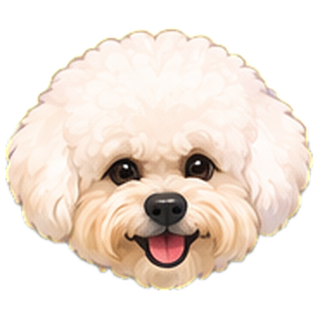
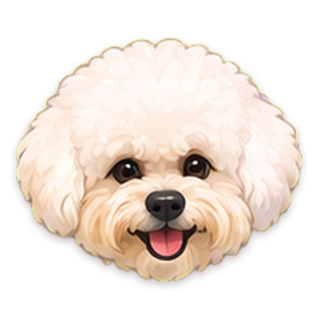
Make placing dogs smoother on iPhone
- Bake Toby's shadow into the placed-dog art and the cross symbol instead of
  CSS drop-shadow filters, which Safari redraws every animation frame.
- Placed dog is a shared, pre-decoded background image rather than a new img.
- Redraw only squares that changed; batch saves; play sounds after the frame.

Claude-Session: https://claude.ai/code/session_01X2DzHikvmZdyBSqugt2kme

Changed region(s): [[0.0, 0.0625, 1.0, 0.9062], [0.625, 0.4062, 0.6562, 0.4375], [0.2812, 0.4688, 0.3125, 0.5]]

diff --git a/index.html b/index.html
@@ -55,7 +55,7 @@ header{display:flex;align-items:center;justify-content:space-between;gap:8px;fle
 .boardArea{flex:1;min-height:0;display:flex;align-items:center;justify-content:center;position:relative}
 .frame{background:var(--card);border-radius:22px;box-shadow:0 6px 22px rgba(117,69,55,.16);padding:8px;position:relative;z-index:6}
 .strip{display:grid;gap:var(--gap);margin-bottom:6px;padding:0 1px}
-.strip .head{display:flex;justify-content:center;align-items:flex-end;filter:drop-shadow(0 1px 1px rgba(117,69,55,.4))}
+.strip .head{display:flex;justify-content:center;align-items:flex-end}
 .strip .sil,.strip .face{width:min(100%,40px);aspect-ratio:1;display:block}
 .strip .sil{-webkit-mask:url(toby/face-happy.png) center/contain no-repeat;mask:url(toby/face-happy.png) center/contain no-repeat}
 .strip .face{display:none;object-fit:contain}
@@ -70,9 +70,9 @@ header{display:flex;align-items:center;justify-content:space-between;gap:8px;fle
   background-repeat:no-repeat;background-position:center;background-size:58% 58%;transition:filter .2s;box-shadow:inset 0 -2px 0 rgba(0,0,0,.06)}
 body.nopat .tile{background-image:none!important}
 .tile svg{pointer-events:none}
-.tile .x{width:52%;height:52%;filter:drop-shadow(0 1px 1px rgba(0,0,0,.25))}
-.tile .x.red{filter:drop-shadow(0 1px 1px rgba(0,0,0,.18));animation:pop .3s}
-.tile .dog{width:94%;height:94%;object-fit:contain;pointer-events:none;filter:drop-shadow(0 1.5px 2px rgba(117,69,55,.35))}
+.tile .x{width:52%;height:52%}
+.tile .x.red{animation:pop .3s}
+.tile .dog{width:96%;height:96%;pointer-events:none;background:url(toby/tile-head.png) center/contain no-repeat;transform:translateZ(0)}
 .tile.pop .dog{animation:pop .4s}
 .tile.sniffed{animation:sniffed .9s}
 @keyframes sniffed{0%{box-shadow:0 0 0 0 rgba(247,154,34,.9)}40%{box-shadow:0 0 0 4px rgba(247,154,34,.9)}100%{box-shadow:0 0 0 0 rgba(247,154,34,0)}}
@@ -338,7 +338,7 @@ function buildDefs() {
   const boneShape = (fillAttrs) => `<circle cx="11" cy="10" r="8" ${fillAttrs}/><circle cx="11" cy="20" r="8" ${fillAttrs}/><circle cx="49" cy="10" r="8" ${fillAttrs}/><circle cx="49" cy="20" r="8" ${fillAttrs}/><rect x="11" y="9" width="38" height="12" rx="3" ${fillAttrs}/>`;
   const bone = `<symbol id="bone" viewBox="0 0 60 30">${boneShape('fill="#A8671E" stroke="#A8671E" stroke-width="3.5"')}${boneShape('fill="#F7C548"')}
     <path d="M14 7.5h3M45 7.5h-3M17 12.5h26" stroke="#FFE7A0" stroke-width="2.2" stroke-linecap="round"/></symbol>`;
-  const xmark = `<symbol id="xmark" viewBox="0 0 24 24"><path d="M5 5l14 14M19 5L5 19" stroke="currentColor" stroke-width="4.2" stroke-linecap="round"/></symbol>`;
+  const xmark = `<symbol id="xmark" viewBox="0 0 24 24"><path d="M5 6l14 14M19 6L5 20" stroke="#000" stroke-opacity=".16" stroke-width="4.6" stroke-linecap="round"/><path d="M5 5l14 14M19 5L5 19" stroke="currentColor" stroke-width="4.2" stroke-linecap="round"/></symbol>`;
   const icons = `
     <symbol id="paw" viewBox="0 0 24 24"><g fill="${COCOA}"><ellipse cx="12" cy="15.5" rx="4.6" ry="3.9"/><circle cx="6.4" cy="10.4" r="2.1"/><circle cx="10" cy="6.8" r="2.1"/><circle cx="14" cy="6.8" r="2.1"/><circle cx="17.6" cy="10.4" r="2.1"/></g></symbol>
     <symbol id="gear" viewBox="0 0 24 24"><path fill="${COCOA}" d="M10.3 2h3.4l.5 2.6 1.7.8 2.2-1.5 2.4 2.4-1.5 2.2.8 1.7 2.6.5v3.4l-2.6.5-.8 1.7 1.5 2.2-2.4 2.4-2.2-1.5-1.7.8-.5 2.6h-3.4l-.5-2.6-1.7-.8-2.2 1.5-2.4-2.4 1.5-2.2-.8-1.7L2 13.7v-3.4l2.6-.5.8-1.7-1.5-2.2 2.4-2.4 2.2 1.5 1.7-.8zM12 8.4a3.6 3.6 0 1 0 0 7.2 3.6 3.6 0 0 0 0-7.2z"/></symbol>
@@ -530,8 +530,20 @@ function newGameFrom(p) {
   return { kind: p.kind, key: p.key, n: p.n, regions: p.regions, sol: p.sol, colours: p.colours, tier: p.tier, requestedTier: p.requestedTier, difficultyMatched: p.difficultyMatched, starters: p.starters || [],
     marks, history: [], bones: 3, finds: 0, hints: 0, sniffs: 0, red: [], continued: false, done: false, elapsed: 0 };
 }
-function saveGame() { if (G) store.set('game_' + G.kind, G); }
+// Saves are batched: written ~250ms after the last change (and at once when the app is hidden).
+let pendingSave = null, saveTimer = 0;
+function flushSave() { clearTimeout(saveTimer); if (pendingSave) { store.set('game_' + pendingSave.kind, pendingSave); pendingSave = null; } }
+function saveGame() {
+  if (!G) return;
+  if (pendingSave && pendingSave !== G) flushSave();
+  pendingSave = G; clearTimeout(saveTimer); saveTimer = setTimeout(flushSave, 250);
+}
+addEventListener('pagehide', flushSave);
+document.addEventListener('visibilitychange', () => { if (document.hidden) flushSave(); });
+// Run sounds and other non-visual work just after the next frame has been drawn.
+const afterPaint = fn => requestAnimationFrame(() => setTimeout(fn, 0));
 async function loadGame(kind) {
+  flushSave();
   mode = kind; store.set('mode', kind);
   const key = kind === 'daily' ? todayKey() : level;
   const saved = store.get('game_' + kind, null);
@@ -616,20 +628,26 @@ function render() {
 function paint() {
   const bad = clashes(), n = G.n, active = bonesActive();
   const regionHasGoodDog = new Array(n).fill(false);
+  const hc = settings.highContrast ? 1 : 0;
   tiles.forEach((d, i) => {
     const m = G.marks[i];
     const red = m === 1 && isRed(i);
     const want = m === 2 ? 'dog' : m === 1 ? (red ? 'rx' : 'x') : '';
-    if (d.dataset.show !== want) {
-      d.dataset.show = want;
-      d.innerHTML = want === 'dog' ? '<img class="dog" src="toby/tile-head.png" alt="">'
-        : want === 'x' ? `<svg class="x" viewBox="0 0 24 24" style="color:${settings.highContrast ? '#3b2219' : '#fff'}"><use href="#xmark"/></svg>`
+    const wrong = m === 2 && active && !isSol(i);
+    const clash = m === 2 && !wrong && bad.has(i);
+    if (m === 2 && !wrong && !clash) regionHasGoodDog[G.regions[i]] = true;
+    // only touch squares whose look actually changed (much cheaper on iPhone)
+    const key = want + wrong + clash + hc;
+    if (d._k === key && d.dataset.show === want) return;
+    d._k = key;
+    if (d.dataset.show !== want || d._hc !== hc) {
+      d.dataset.show = want; d._hc = hc;
+      d.innerHTML = want === 'dog' ? '<span class="dog"></span>'
+        : want === 'x' ? `<svg class="x" viewBox="0 0 24 24" style="color:${hc ? '#3b2219' : '#fff'}"><use href="#xmark"/></svg>`
         : want === 'rx' ? '<svg class="x red" viewBox="0 0 24 24" style="color:#EE6A3A"><use href="#xmark"/></svg>' : '';
     }
-    const wrong = m === 2 && active && !isSol(i);
     d.classList.toggle('wrong', wrong);
-    d.classList.toggle('clash', m === 2 && !wrong && bad.has(i));
-    if (m === 2 && !wrong && !bad.has(i)) regionHasGoodDog[G.regions[i]] = true;
+    d.classList.toggle('clash', clash);
     const y = Math.floor(i / n), x = i % n;
     d.setAttribute('aria-label', `Row ${y + 1}, column ${x + 1}, ${NAMES[G.colours[G.regions[i]]]}, ${m === 2 ? 'dog' : red ? 'wrong guess, crossed out' : m === 1 ? 'crossed out' : 'empty'}`);
   });
@@ -638,10 +656,10 @@ function paint() {
   $('btnHint').disabled = G.done || !hintsLeft();
   $('btnFind').disabled = G.done || !findsLeft();
   $('btnSniff').disabled = G.done || !sniffsLeft();
-  $('sniffBadge').textContent = sniffsLeft(); $('sniffBadge').classList.toggle('empty', !sniffsLeft());
-  $('hintBadge').textContent = hintsLeft(); $('hintBadge').classList.toggle('empty', !hintsLeft());
-  $('findBadge').textContent = findsLeft(); $('findBadge').classList.toggle('empty', !findsLeft());
+  setBadge('sniffBadge', sniffsLeft()); setBadge('hintBadge', hintsLeft());
+  setBadge('findBadge', findsLeft());
 }
+function setBadge(id, v) { const b = $(id); if (b.textContent !== String(v)) b.textContent = v; b.classList.toggle('empty', !v); }
 function renderBones() {
   const b = $('bones');
   if (!bonesActive()) { b.className = 'bones relaxed'; b.textContent = '😌 Relaxed'; return; }
@@ -671,7 +689,7 @@ function commit(changes, opts) {
   // feedback
   if (placedDogs.length) {
     const wrongOnes = bonesActive() ? placedDogs.filter(i => !isSol(i)) : [];
-    placedDogs.forEach(i => { tiles[i].classList.remove('pop'); void tiles[i].offsetWidth; tiles[i].classList.add('pop'); });
+    placedDogs.forEach(i => { const t = tiles[i]; t.classList.remove('pop'); requestAnimationFrame(() => t.classList.add('pop')); });
     if (wrongOnes.length && !opts.noPenalty) {
       wrongOnes.forEach(i => { const t = tiles[i]; t.classList.remove('shake'); void t.offsetWidth; t.classList.add('shake'); });
       loseBone();
@@ -681,9 +699,10 @@ function commit(changes, opts) {
         wrongOnes.forEach(i => { if (G.marks[i] === 2) { G.marks[i] = 1; if (!G.red) G.red = []; if (!G.red.includes(i)) G.red.push(i); } });
         paint(); saveGame();
       }, 650);
-    } else sfx.dog();
+    } else afterPaint(sfx.dog);
   } else if (!opts.silent) {
-    entry.some(([i]) => G.marks[i] === 1) ? sfx.x() : sfx.clear();
+    const crossed = entry.some(([i]) => G.marks[i] === 1);
+    afterPaint(crossed ? sfx.x : sfx.clear);
   }
   saveGame();
   checkWin();
@@ -729,7 +748,7 @@ function checkWin() {
     store.set('daily', daily);
     extra = ` Streak: ${daily.streak} day${daily.streak === 1 ? '' : 's'} 🔥` + (newBest ? ' New best time!' : '');
   }
-  saveGame(); paint();
+  saveGame(); flushSave(); paint();
   $('scoreNum').textContent = score.toLocaleString();
   sfx.win();
   $('winText').textContent = (G.kind === 'daily' ? `Daily puzzle for ${prettyDay(G.key)} done` : `Level ${G.key} done`) + ` in ${fmtTime(G.elapsed)}` + (!G.hints && !G.finds ? ', all by yourself!' : '.') + extra;
@@ -1012,6 +1031,7 @@ $('btnRestart').onclick = () => {
 
 // ---------------- boot ----------------
 buildDefs();
+['toby/tile-head.png', 'toby/face-happy.png', 'toby/act-sniff.png'].forEach(src => { const im = new Image(); im.src = src; if (im.decode) im.decode().catch(() => {}); });
 $('logo').innerHTML = '<img src="logo.png" alt="Sudogku">';
 {
   const paw = (x, y, rot, sc) => `<g transform="translate(${x} ${y}) rotate(${rot}) scale(${sc})" fill="#E9C9B6"><ellipse cx="0" cy="5" rx="7" ry="6"/><circle cx="-8" cy="-3" r="3.2"/><circle cx="-3" cy="-8.5" r="3.2"/><circle cx="3" cy="-8.5" r="3.2"/><circle cx="8" cy="-3" r="3.2"/></g>`;

diff --git a/sw.js b/sw.js
@@ -1,5 +1,5 @@
 // Sudogku service worker: works offline once installed.
-const CACHE = 'sudogku-toby-v14';
+const CACHE = 'sudogku-toby-v15';
 const FILES = ['./', 'index.html', 'engine.js', 'manifest.webmanifest', 'icon-180.png', 'icon-192.png', 'icon-512.png', 'logo.png', 'toby-home.png', 'toby/tile.png', 'toby/tile-head.png', 'toby/face-happy.png', 'toby/face-focused.png', 'toby/face-excited.png', 'toby/face-sorry.png', 'toby/face-cheeky.png', 'toby/act-sniff.png', 'toby/act-hint.png', 'toby/act-complete.png', 'toby/act-oops.png'];
 self.addEventListener('install', e => { e.waitUntil(caches.open(CACHE).then(c => c.addAll(FILES))); self.skipWaiting(); });
 self.addEventListener('activate', e => {

diff --git a/CLAUDE_HANDOFF.md b/CLAUDE_HANDOFF.md
@@ -36,4 +36,10 @@ Ad-free, offline, dog-themed take on Meowdoku. Installable PWA. Single-file UI (
 - UI checked in desktop Chrome with simulated touch at 390×844 and 375×667. **Still needs a check on a real iPhone in Safari** (double-tap timing, drag, safe areas, offline update).
 
 ## When changing files
-Bump `CACHE` in `sw.js` (currently `sudogku-toby-v14`) so installed copies update.
+Bump `CACHE` in `sw.js` (currently `sudogku-toby-v15`) so installed copies update.
+
+## Performance notes (iPhone)
+- Avoid CSS `filter` (drop-shadow etc.) on anything that animates or repeats on the board; Safari redraws it every frame. Shadows are baked into the art (`toby/tile-head.png`) and into the ✕ symbol.
+- The placed dog is a CSS background on one shared, pre-decoded image, not a new `<img>` per square.
+- `paint()` only touches squares whose look changed; saves are batched (`saveGame` → `flushSave` after ~250 ms, and when the app is hidden); sounds play just after the frame is drawn (`afterPaint`).
+
